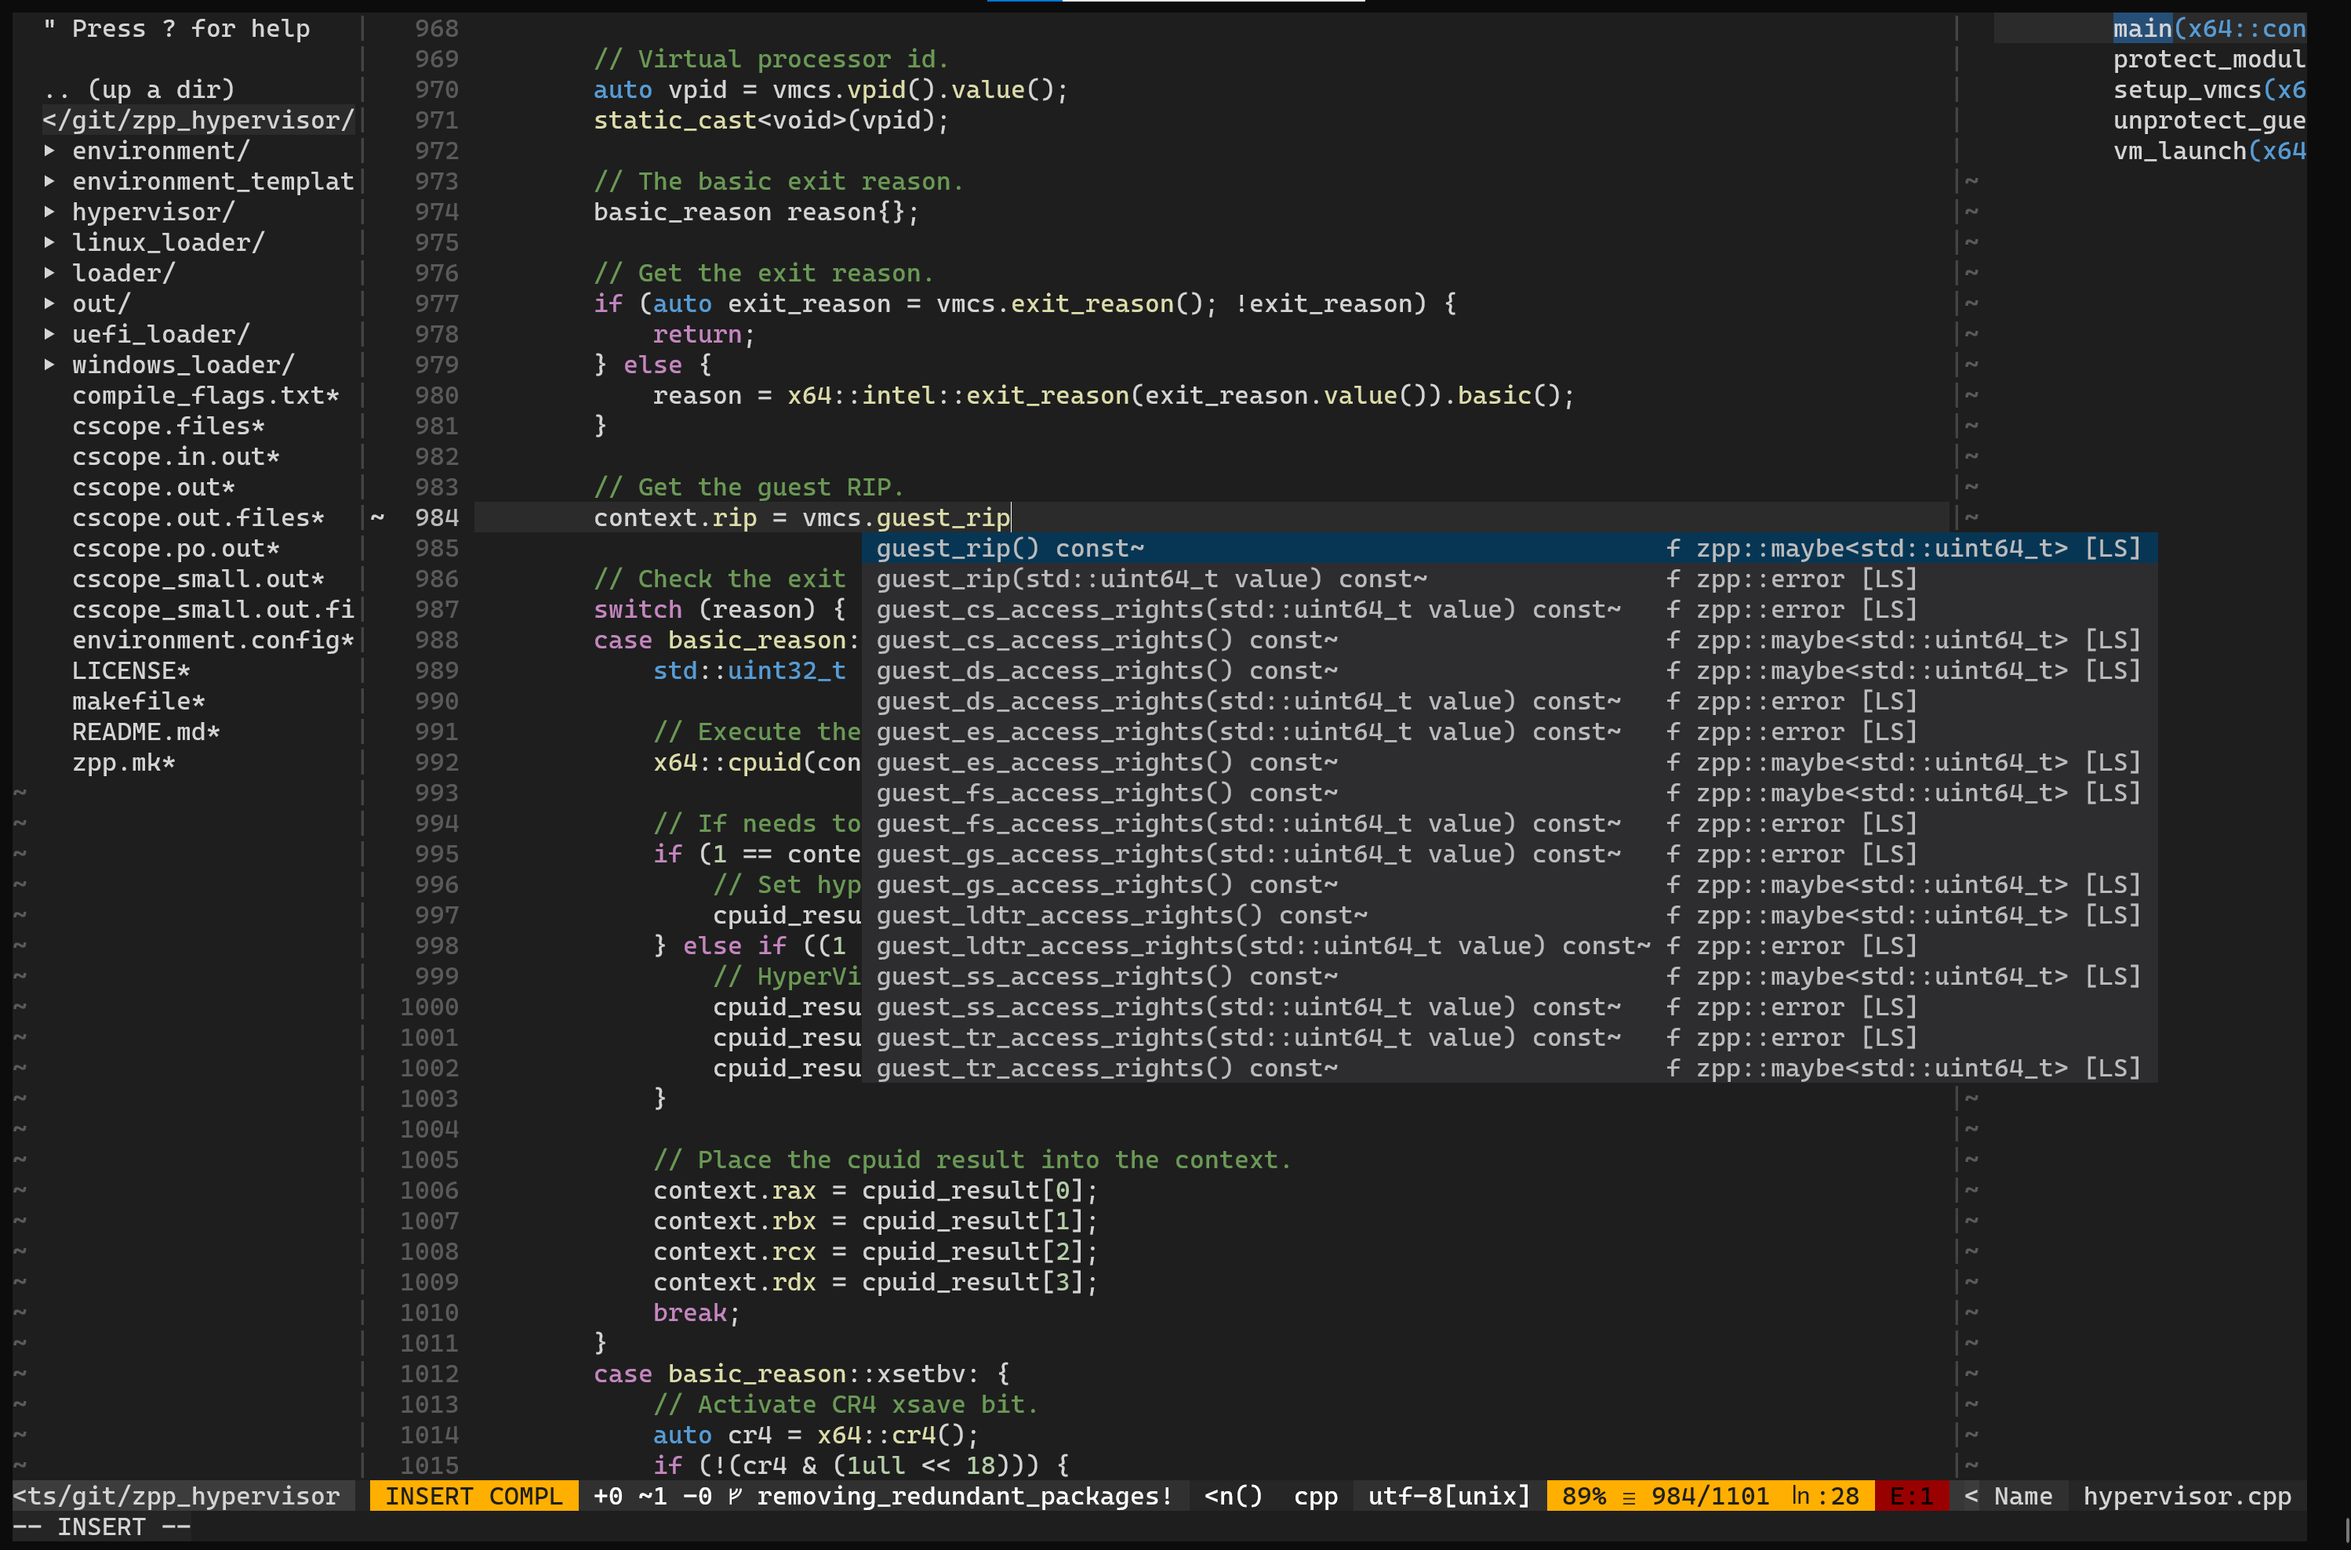
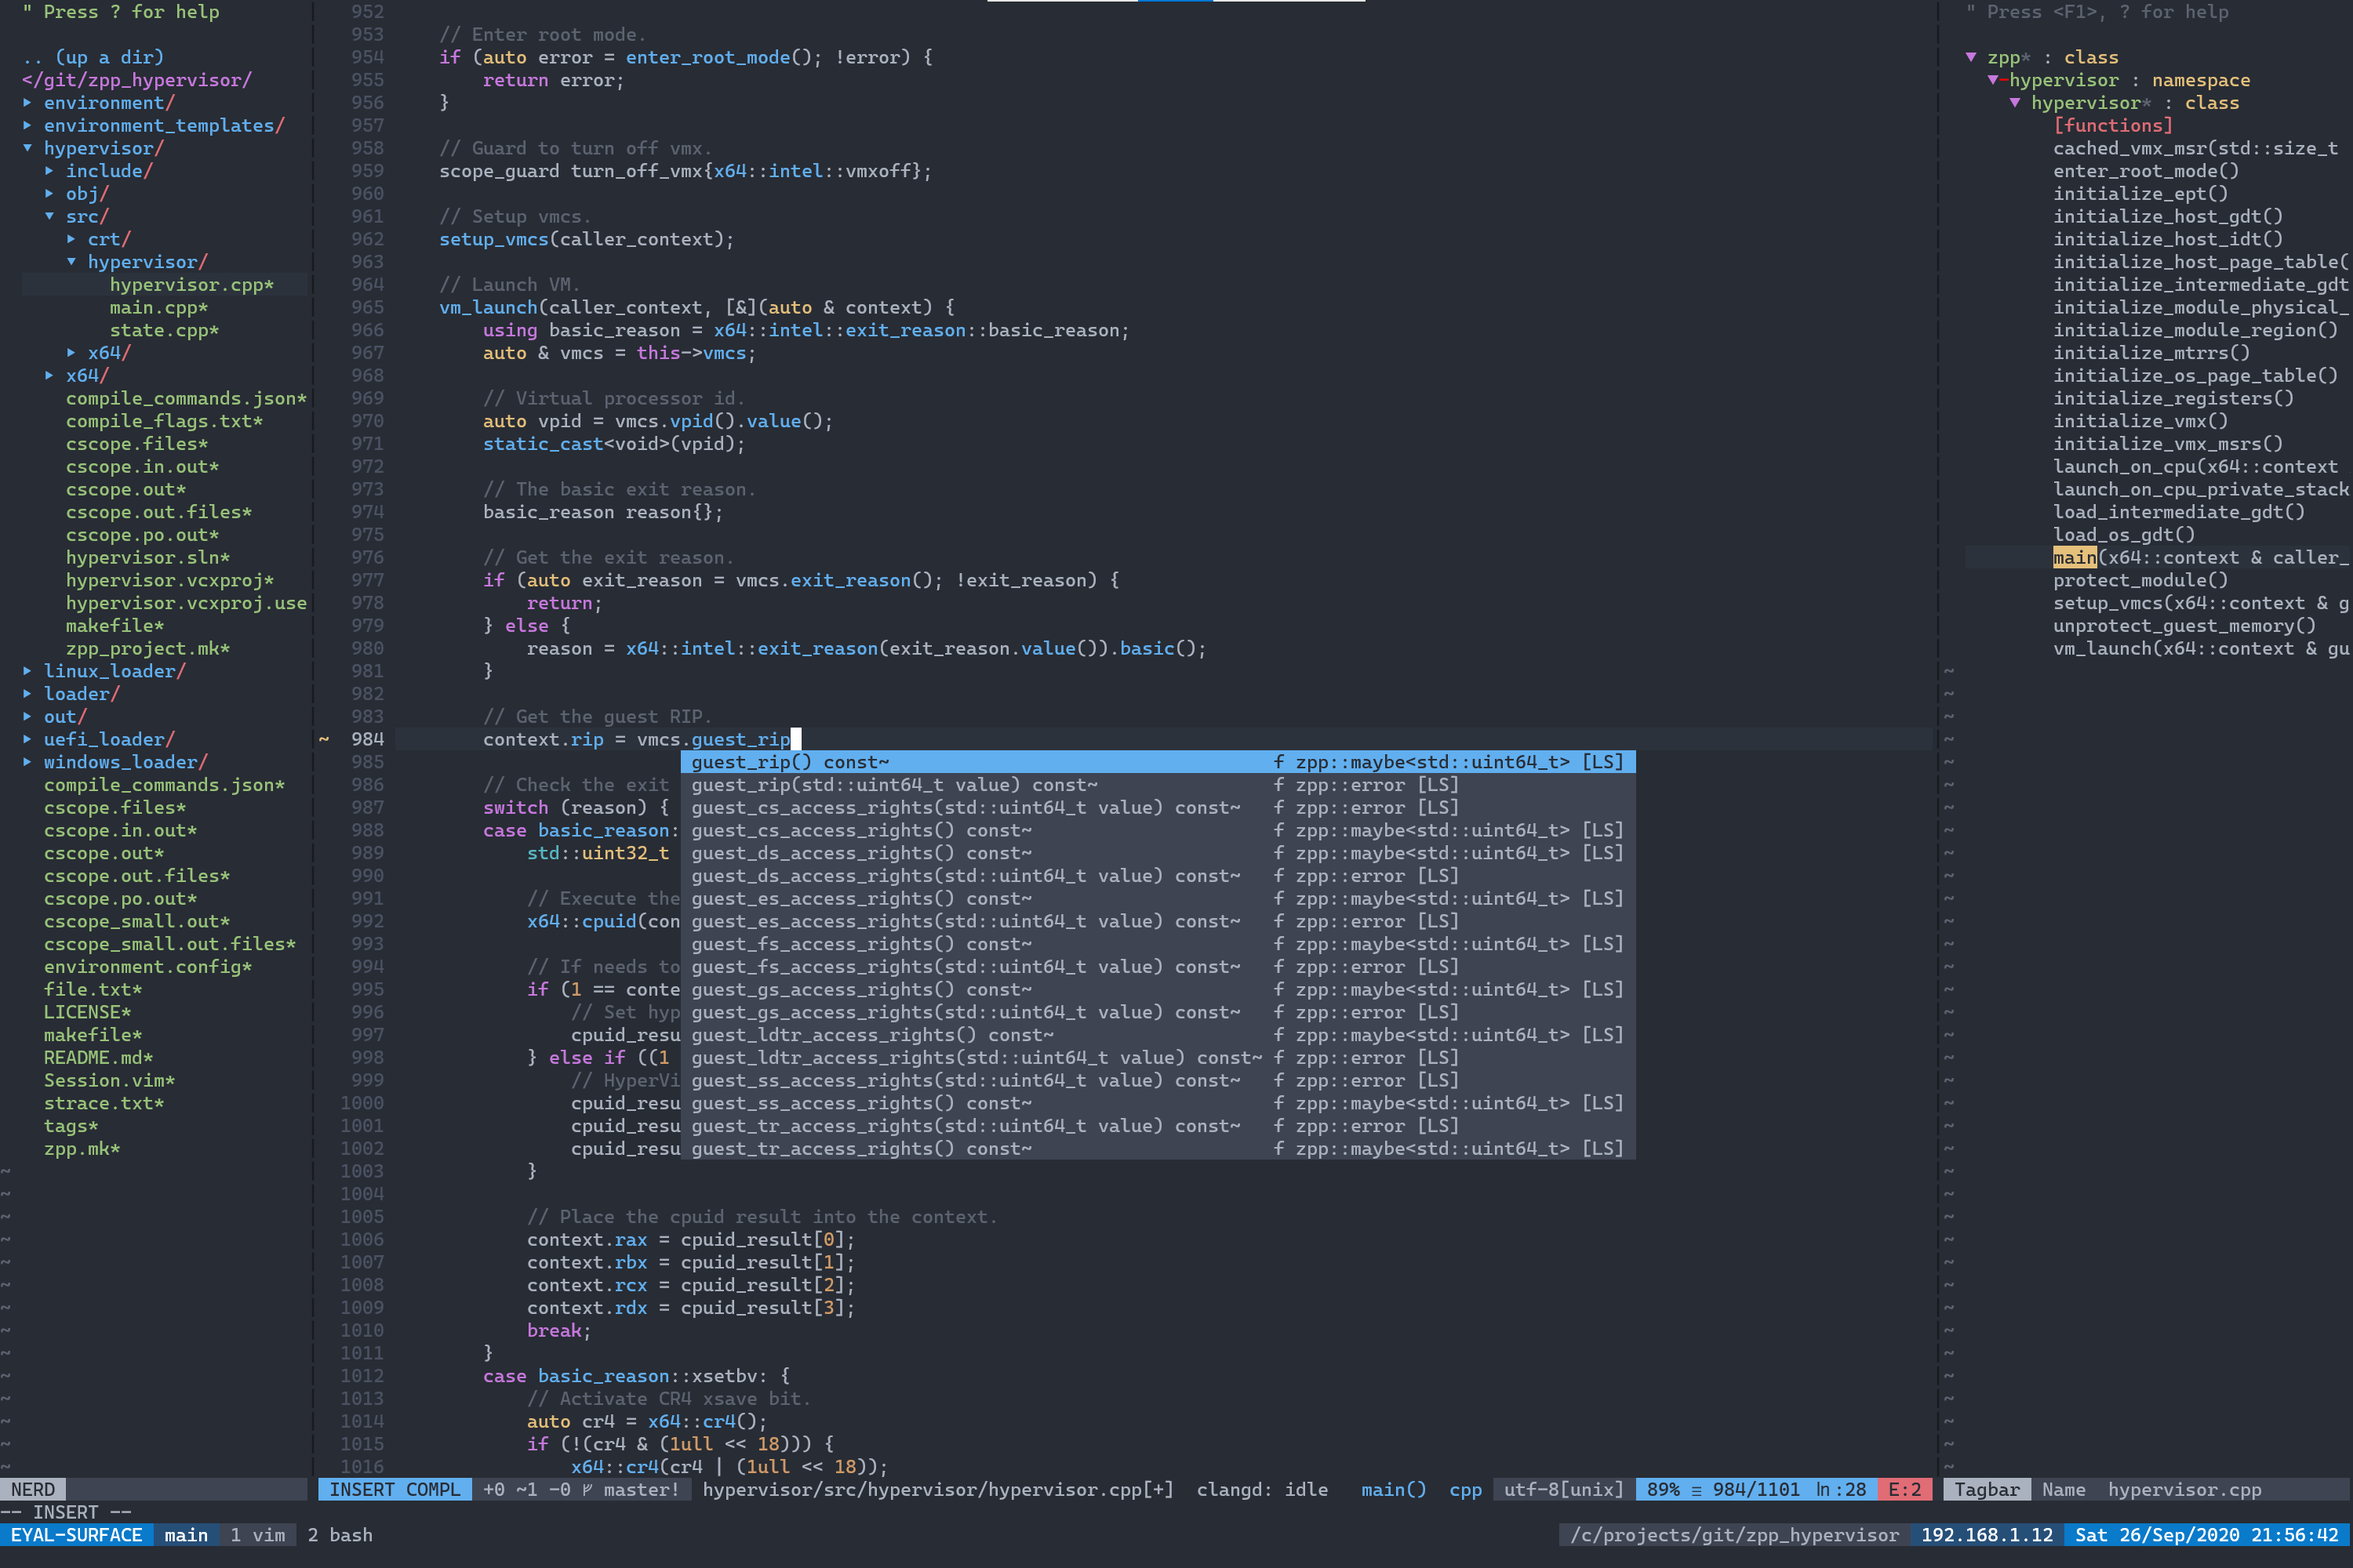
Updated screenshots and default colors.

Changed region(s): [[0.0, 0.0, 1.0, 1.0], [0.5274, 0.1851, 0.6204, 0.216], [0.5274, 0.9256, 0.5584, 0.9565]]

diff --git a/README.md b/README.md
@@ -234,8 +234,8 @@ and invoke 'vim -S' to restore the session at the next time.
 
 * Setting persistant color:
 ```
-:ZColor 'codedark' - using codedark color (default)
 :ZColor 'onedark' - using onedark.
+:ZColor 'codedark' - using codedark.
 :ZColor 'gruvbox' - using gruvbox.
 ```
 
